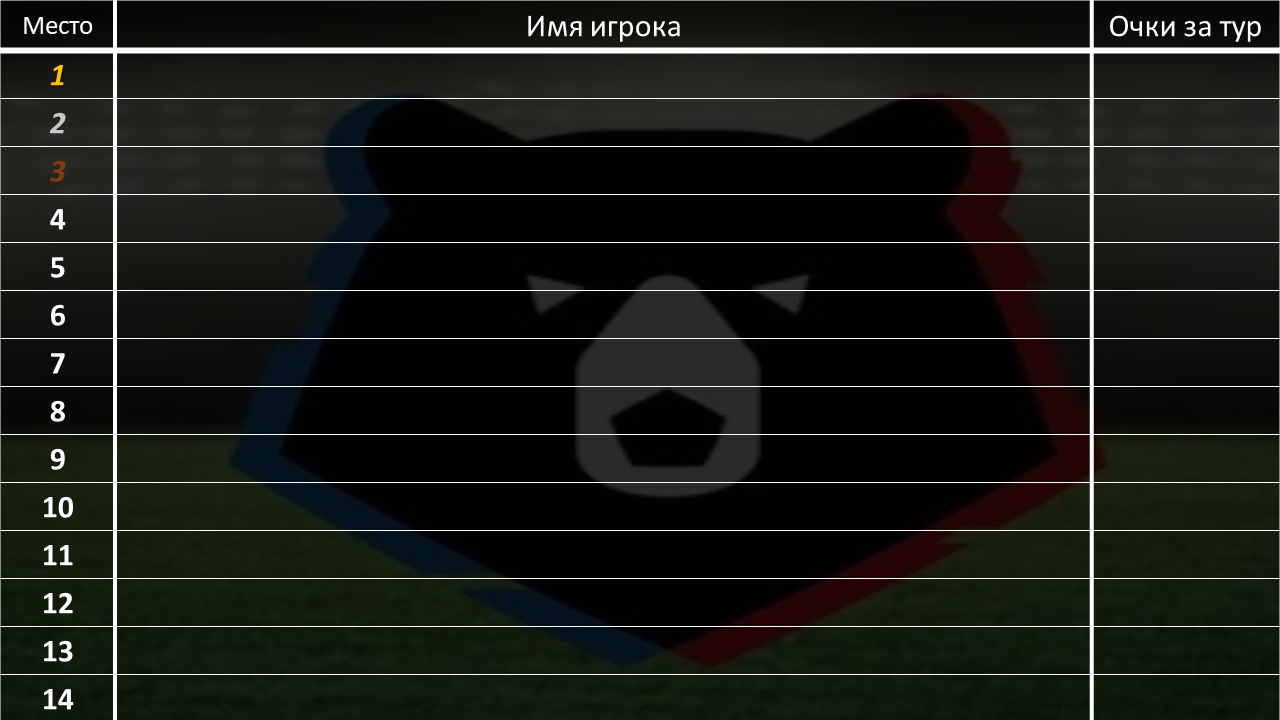
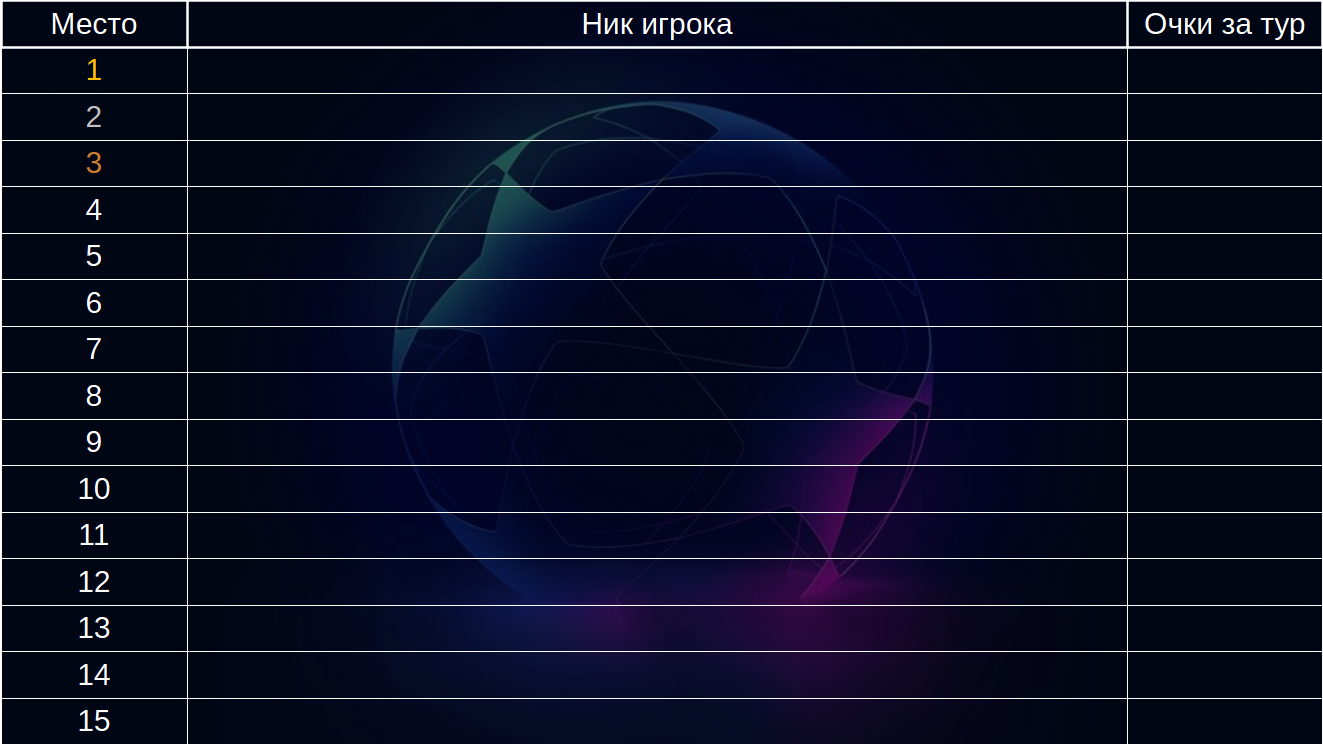
update template

diff --git a/image_creator/table_creator.py b/image_creator/table_creator.py
@@ -1,27 +1,35 @@
 from PIL import Image, ImageDraw, ImageFont
+from config_data import config
 
 
 def main_table(table, tour):
     img = Image.open("images/table_templates/template_main_table.png")
     imdraw = ImageDraw.Draw(img)
-    dx = [44, 336, 395, 452, 510, 568, 626, 682, 739, 799, 855, 913, 970, 1031, 1090, 1146, 1205, 1280]
+    dx = [66, 426, 495, 564, 633, 702, 771, 840, 909, 978, 1047, 1117, 1186, 1255, 1323]
+    start_y = 78  # Начало таблицы по y без шапки
+    dy = 44  # Разница между строками по y
     font = ImageFont.truetype("images/Fonts/consolas.ttf", size=28)
-    for i in range(14):
+    for i in range(config.NUMBER_OF_PLAYERS):
         for j in range(len(table[0])):
             if j < tour or j == len(table[0]) - 1:
                 msg = str(table[i][j]) 
             else:
                 msg = "-"
             _, _, w, h = imdraw.textbbox((0, 0), msg, font=font)
-            imdraw.text((dx[j] + (dx[j + 1] - dx[j] - w) // 2, 70 + 46.5 * i + (46.5 - h) // 2), msg, font=font)
+            imdraw.text((dx[j] + (dx[j + 1] - dx[j] - w) // 2, start_y + dy * i + (dy - h) // 2), msg, font=font)
     img.save("images/ready_tables/main_table.png")
 
 
 def result_tour(res, tour, points, nickname=""):
     img = Image.open("images/table_templates/template_result_tour.png")
     imdraw = ImageDraw.Draw(img)
-    
-    dx = [0, 625, 883, 1110, 1280]
+    dx = [0, 683, 941, 1179, 1323]
+    dy = 68  # Разница между строками по y
+    width = 1323  # ширина таблицы
+    result_start_x = 1179  # начало окна итога очков по х
+    result_start_y = 676  # начало окна итога очков по у
+    result_finish_x = 1323  # конец окна итога очков по х
+
     if nickname == "":
         font = ImageFont.truetype("images/Fonts/consolas.ttf", size=54)
         msg = f'Итог {tour}'
@@ -29,17 +37,17 @@ def result_tour(res, tour, points, nickname=""):
         font = ImageFont.truetype("images/Fonts/consolas.ttf", size=42)
         msg = f'Прогноз {tour} от {nickname}'
     _, _, w, h = imdraw.textbbox((0, 0), msg, font=font)
-    imdraw.text(((1280 - w) // 2, (65 - h) // 2), msg, font=font, fill=(0, 0, 0), stroke_width=1)
+    imdraw.text(((width - w) // 2, (dy - h) // 2), msg, font=font, fill=(255, 255, 255), stroke_width=1)
     msg = f'{points}'
     font = ImageFont.truetype("images/Fonts/BRITANIC.TTF", size=52)
     _, _, w, h = imdraw.textbbox((0, 0), msg, font=font)
-    imdraw.text((1110 + (170 - w) // 2, 650 + (65 - h) // 2), msg, font=font)
+    imdraw.text((result_start_x + (result_finish_x - result_start_x - w) // 2, result_start_y + (dy - h) // 2), msg, font=font)
     font = ImageFont.truetype("images/Fonts/consolas.ttf", size=40)
-    for i in range(8):
+    for i in range(config.COUNT_MATCHES_IN_TOUR):
         for j in range(4):
             msg = str(res[i][j])
             _, _, w, h = imdraw.textbbox((0, 0), msg, font=font)
-            imdraw.text((dx[j] + (dx[j + 1] - dx[j] - w) // 2, 140 + 65 * i + (65 - h) // 2), msg,
+            imdraw.text((dx[j] + (dx[j + 1] - dx[j] - w) // 2, dy * 2 + dy * i + (dy - h) // 2), msg,
                         font=font)
     img.save("images/ready_tables/result_tour.png")
 
@@ -48,12 +56,13 @@ def points_tour(data, tour):
     img = Image.open("images/table_templates/template_points_tour.png")
     imdraw = ImageDraw.Draw(img)
     font = ImageFont.truetype("images/Fonts/consolas.ttf", size=50)
-    dx = [115, 1092, 1280]
+    dx = [187, 1127, 1323]
+    dy = 47  # Разница между строками по y
     font = ImageFont.truetype("images/Fonts/consolas.ttf", size=30)
-    for i in range(14):
+    for i in range(config.NUMBER_OF_PLAYERS):
         for j in range(2):
             msg = str(data[i][j])
             _, _, w, h = imdraw.textbbox((0, 0), msg, font=font)
-            imdraw.text((dx[j] + (dx[j + 1] - dx[j] - w) // 2, 50 + 48 * i + (48 - h) // 2), msg,
+            imdraw.text((dx[j] + (dx[j + 1] - dx[j] - w) // 2, dy + dy * i + (dy - h) // 2), msg,
                         font=font)
     img.save("images/ready_tables/points_tour.png")

diff --git a/handlers/custom_handlers/get_main_table.py b/handlers/custom_handlers/get_main_table.py
@@ -43,7 +43,7 @@ def check_result_tournament(message: Message) -> None:
     ans = []
     # player: nick, id, last_pos, tourN, sum
     for player in res:
-        user_data = [str(player[config.NICKNAME_COLUMN])] + list(map(str, player[config.TOUR1_COLUMN:config.TOUR1_COLUMN + 15])) + [str(player[config.SUM_COLUMN])]
+        user_data = [str(player[config.NICKNAME_COLUMN])] + list(map(str, player[config.TOUR1_COLUMN:config.TOUR1_COLUMN + config.NUMBER_OF_TOUR])) + [str(player[config.SUM_COLUMN])]
         ans.append(user_data)
     table_creator.main_table(ans, base.get_now_tour())
     bot.send_photo(message.chat.id, open("images/ready_tables/main_table.png", 'rb'))

diff --git a/database/common.py b/database/common.py
@@ -1,6 +1,6 @@
 import sqlite3
 from typing import List, Tuple
-from config_data import relations
+from config_data import relations, config
 from matches_parser.parser import parser
 from helper_function import helper_func
 
@@ -155,7 +155,7 @@ class MyDataBase:
         self.cursor.execute(f'SELECT * from users WHERE  id_player = "{id_player}"')
         q = self.cursor.fetchall()
         sum_points = 0
-        for i in range(3, 33):
+        for i in range(config.TOUR1_COLUMN, config.NUMBER_OF_TOUR):
             sum_points += q[0][i]
         self.cursor.execute(
             f'UPDATE users SET sum = "{sum_points}" WHERE id_player = "{id_player}"')

diff --git a/handlers/custom_handlers/update.py b/handlers/custom_handlers/update.py
@@ -10,6 +10,7 @@ def update(message: Message):
         bot.send_message(message.chat.id, "Функция временно недоступна", reply_markup=my_marcup.main_menu_marcup())
         return
     currtour = base.get_now_tour()
+    base.update_result_tour()
     for id in base.get_all_id_player():
         base.update_tournament_table(id[0], currtour - 1, base.number_of_points_per_tour(id[0], currtour - 1))
         base.update_tournament_table(id[0], currtour, base.number_of_points_per_tour(id[0], currtour))

diff --git a/handlers/custom_handlers/get_my_forecast.py b/handlers/custom_handlers/get_my_forecast.py
@@ -17,7 +17,6 @@ def check_forecast_tour(message: Message) -> None:
     output_forecast(relations.HUMAN_DCT[message.text], message.chat.id)
 
 def output_forecast(selected_tour: int, id: int) -> None:
-    print(selected_tour)
     ans = f"Ваш прогноз на {relations.HUMAN_TOUR[selected_tour]} :\n\n"
     res = base.get_forecast_tour(id, selected_tour)
     for match in res:

diff --git a/updater.py b/updater.py
@@ -2,7 +2,7 @@ from loader import base
 
 
 base.update_result_tour()
-currtour = base.get_now_tour()[0]
+currtour = base.get_now_tour()
 for id in base.get_all_id_player():
     base.update_tournament_table(id[0], currtour - 1, base.number_of_points_per_tour(id[0], currtour - 1))
     base.update_tournament_table(id[0], currtour, base.number_of_points_per_tour(id[0], currtour))

diff --git a/config_data/config.py b/config_data/config.py
@@ -10,10 +10,12 @@ else:
 ALL_FUNCTION_READY = None 
 load()
 
-BOT_TOKEN=os.getenv("TEST_BOT_TOKEN")
+BOT_TOKEN=os.getenv("MAIN_BOT_TOKEN")
 ADMIN_ID = os.getenv("ADMIN_ID")
 
-SUM_COLUMN = 33
+NUMBER_OF_TOUR = 12
+SUM_COLUMN = 15
+NUMBER_OF_PLAYERS = 15
 COUNT_MATCHES_IN_TOUR = 8
 TOUR1_COLUMN = 3
 NICKNAME_COLUMN = 0 

diff --git a/main.py b/main.py
@@ -7,7 +7,7 @@ import handlers
 if __name__ == '__main__':
     while True:
         try:
-            bot.infinity_polling()
+            bot.polling(none_stop=True)
         except Exception as exc:
             bot.send_message(config.ADMIN_ID, exc, reply_markup=my_marcup.main_menu_marcup())
 
